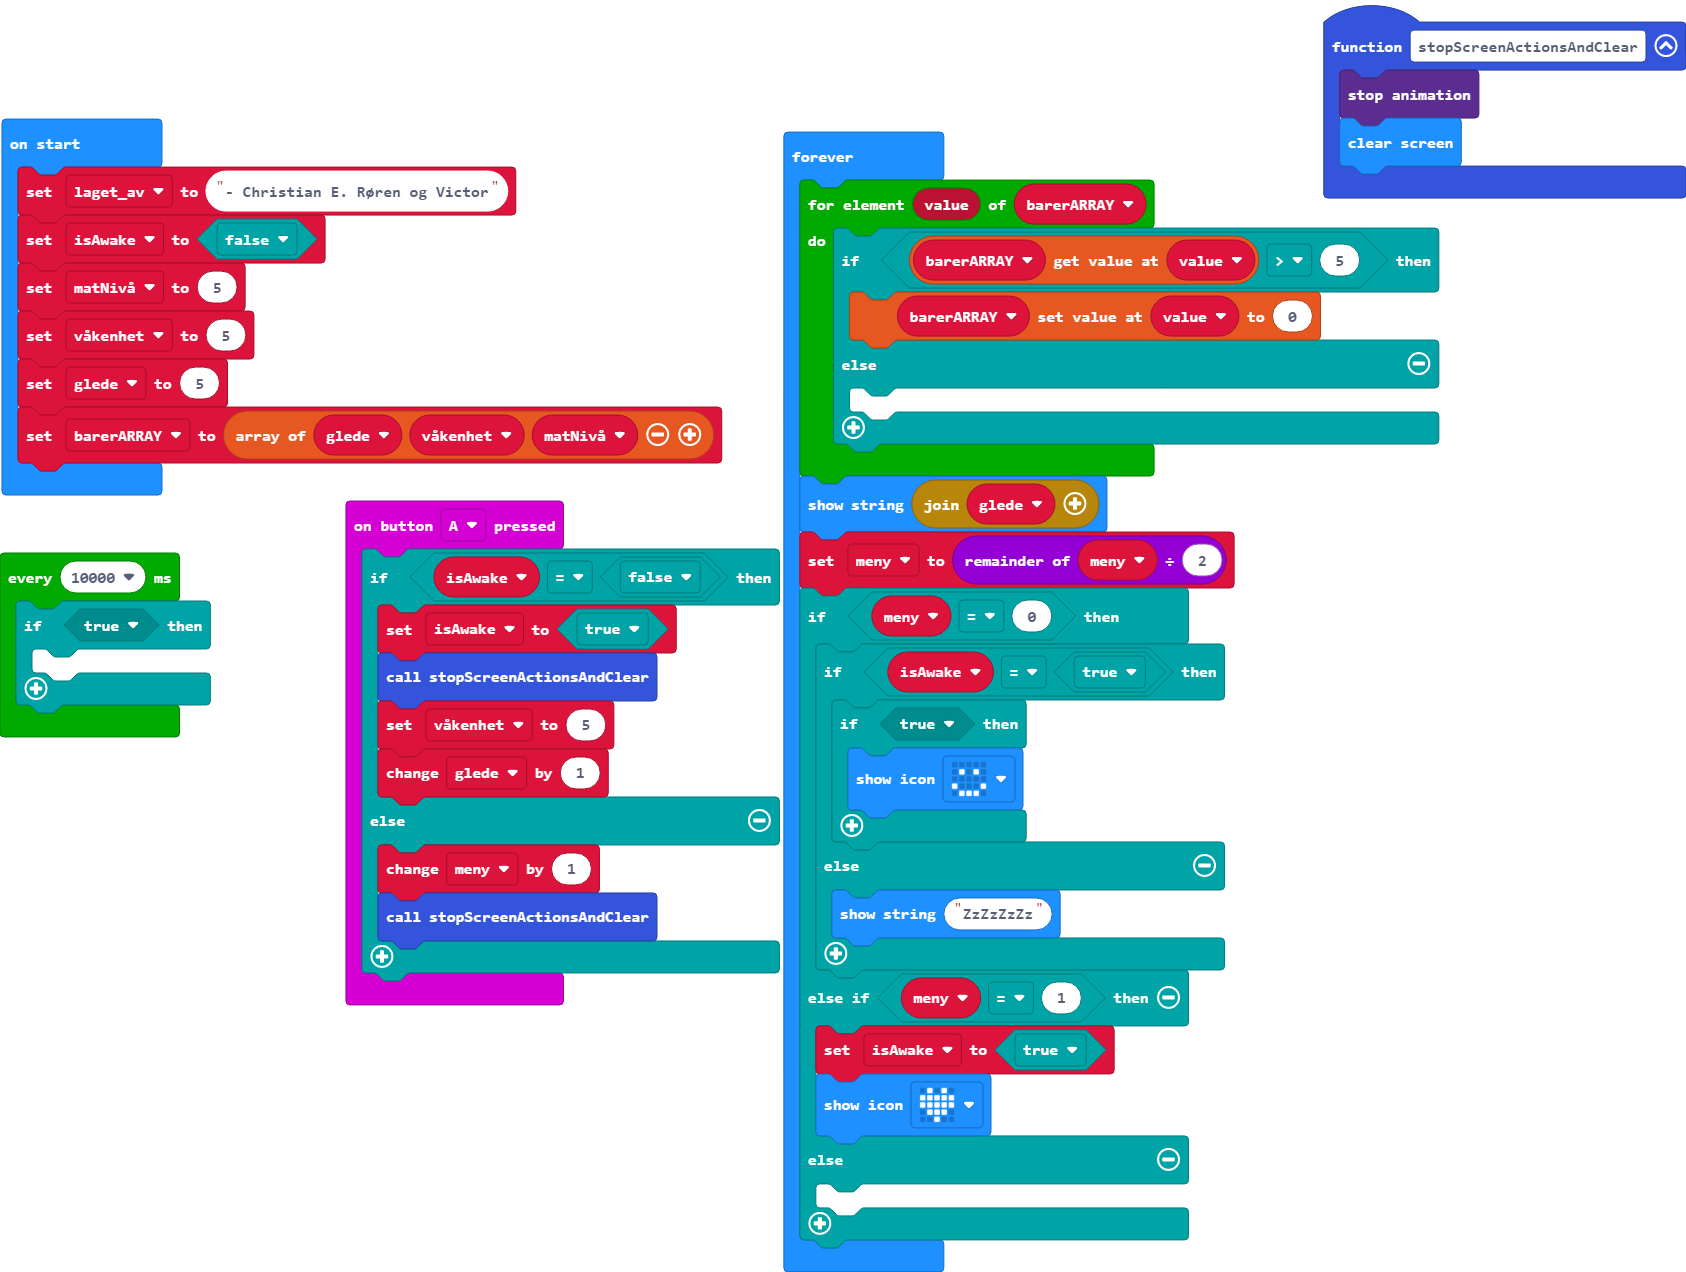
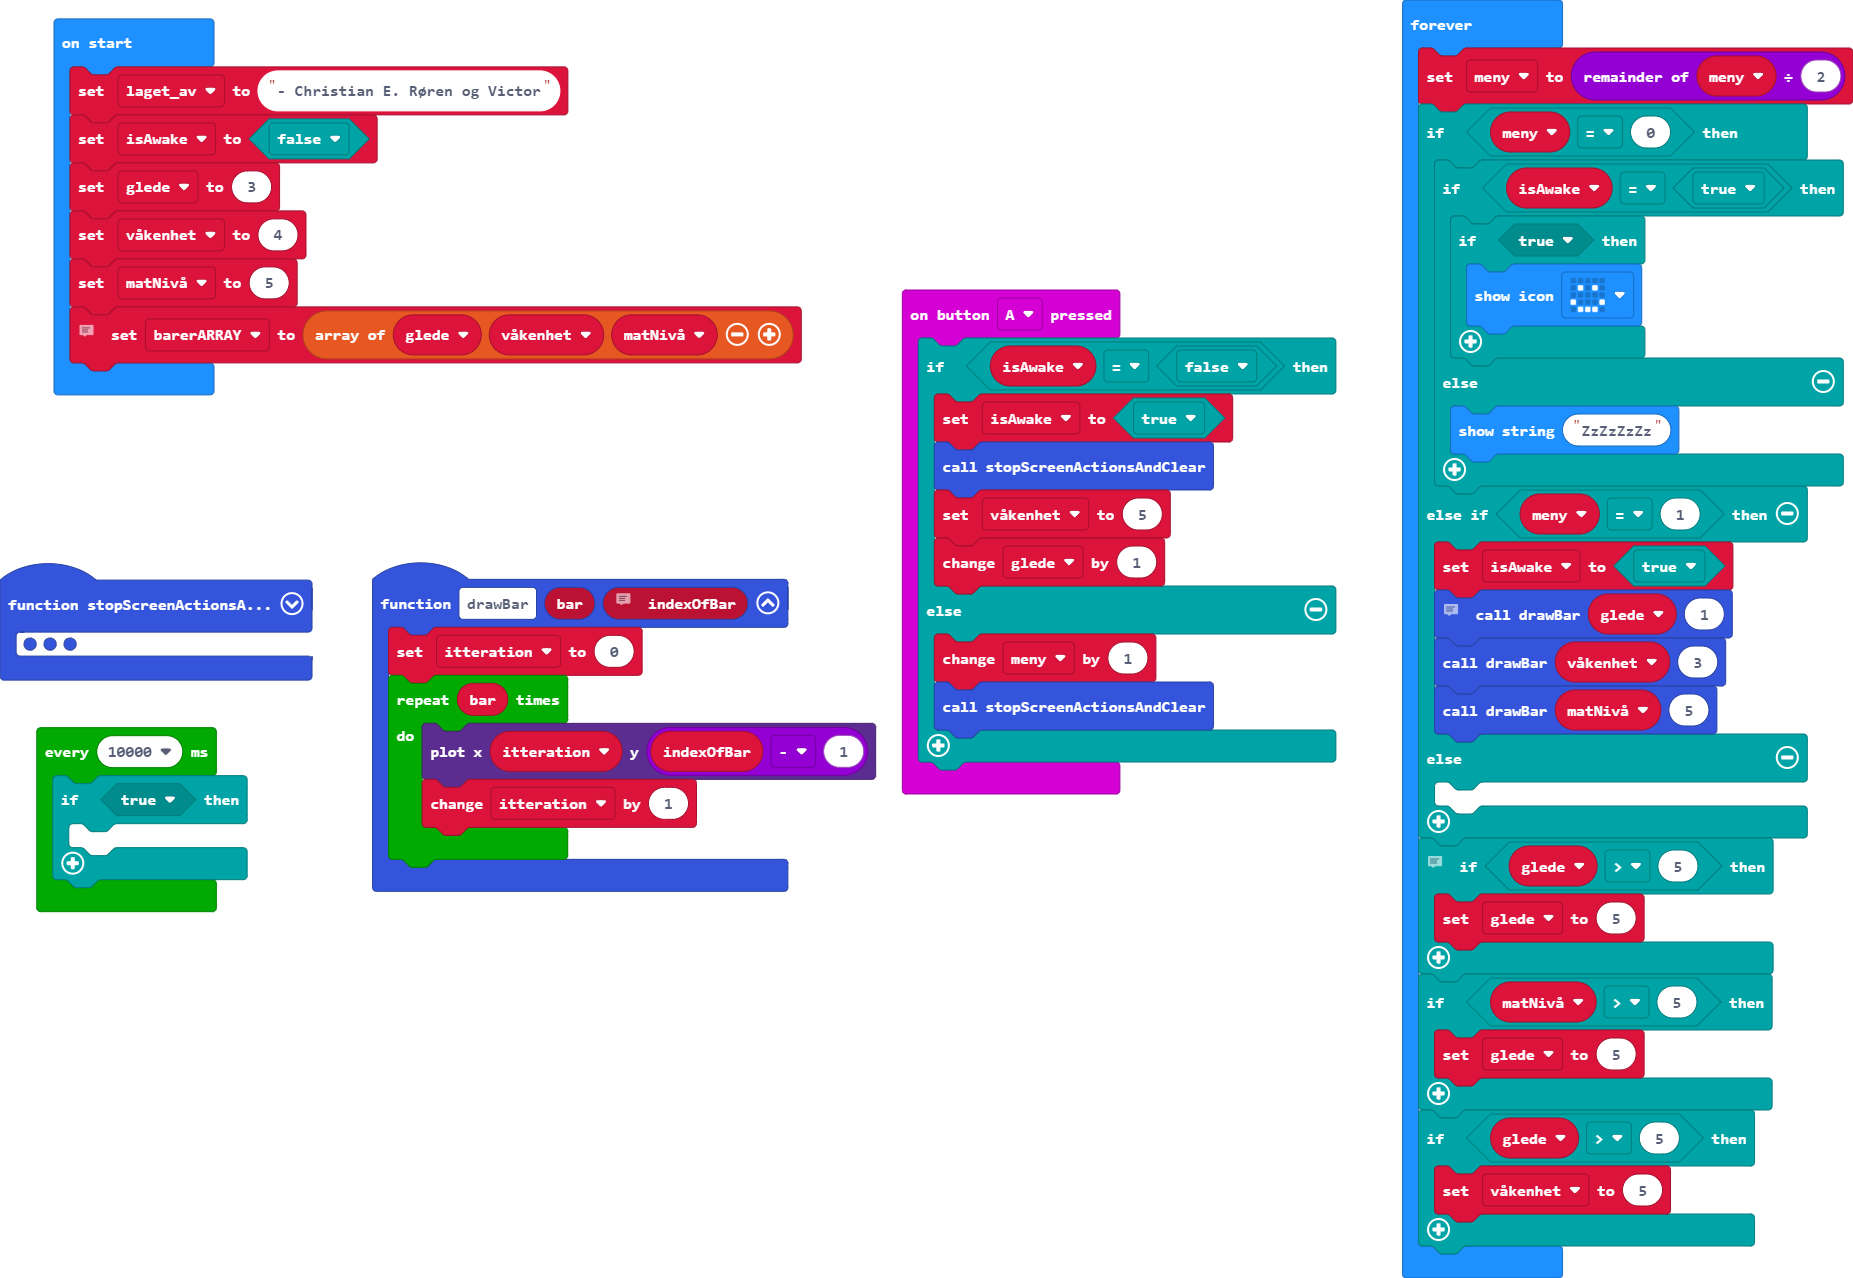
Sjekk om variabler er over det de skal være og tegner de på skjerm.

diff --git a/main.ts b/main.ts
@@ -13,14 +13,23 @@ function stopScreenActionsAndClear () {
     led.stopAnimation()
     basic.clearScreen()
 }
+function drawBar (bar: number, indexOfBar: number) {
+    itteration = 0
+    for (let index = 0; index < bar; index++) {
+        led.plot(itteration, indexOfBar - 1)
+        itteration += 1
+    }
+}
+let itteration = 0
 let meny = 0
 let våkenhet = 0
 let isAwake = false
 let laget_av = "- Christian E. Røren og Victor"
 isAwake = false
+let glede = 3
+våkenhet = 4
 let matNivå = 5
-våkenhet = 5
-let glede = 5
+// foreløpig unødvendig
 let barerARRAY = [glede, våkenhet, matNivå]
 loops.everyInterval(10000, function () {
     if (true) {
@@ -28,14 +37,6 @@ loops.everyInterval(10000, function () {
     }
 })
 basic.forever(function () {
-    for (let value of barerARRAY) {
-        if (barerARRAY[value] > 5) {
-            barerARRAY[value] = 0
-        } else {
-        	
-        }
-    }
-    basic.showString("" + glede)
     meny = meny % 2
     if (meny == 0) {
         if (isAwake == true) {
@@ -47,8 +48,20 @@ basic.forever(function () {
         }
     } else if (meny == 1) {
         isAwake = true
-        basic.showIcon(IconNames.Heart)
+        drawBar(glede, 1)
+        drawBar(våkenhet, 3)
+        drawBar(matNivå, 5)
     } else {
     	
+    }
+    // ditta hadde vært unødvendig om ting hadde fungert, men det gjør det ikke haha
+    if (glede > 5) {
+        glede = 5
+    }
+    if (matNivå > 5) {
+        glede = 5
+    }
+    if (glede > 5) {
+        våkenhet = 5
     }
 })

diff --git a/main.py b/main.py
@@ -13,11 +13,11 @@ input.on_button_pressed(Button.A, on_button_pressed_a)
 def stopScreenActionsAndClear():
     led.stop_animation()
     basic.clear_screen()
+meny = 0
 våkenhet = 0
 isAwake = False
 laget_av = "- Christian E. Røren og Victor"
 isAwake = False
-meny = 0
 matNivå = 5
 våkenhet = 5
 glede = 5
@@ -29,13 +29,11 @@ def on_every_interval():
 loops.every_interval(10000, on_every_interval)
 
 def on_forever():
-    global meny, isAwake
+    global meny, isAwake, barerARRAY
     for value in barerARRAY:
-        if barerARRAY[value] > 5:
-            barerARRAY[value] = 0
-        else:
-            pass
-    basic.show_string("" + str((glede)))
+        basic.show_string(str(barerARRAY.index(value)))
+        barerARRAY[barerARRAY.index(value)-1]
+    #basic.show_string("" + str((glede)))
     meny = meny % 2
     if meny == 0:
         if isAwake == True:
